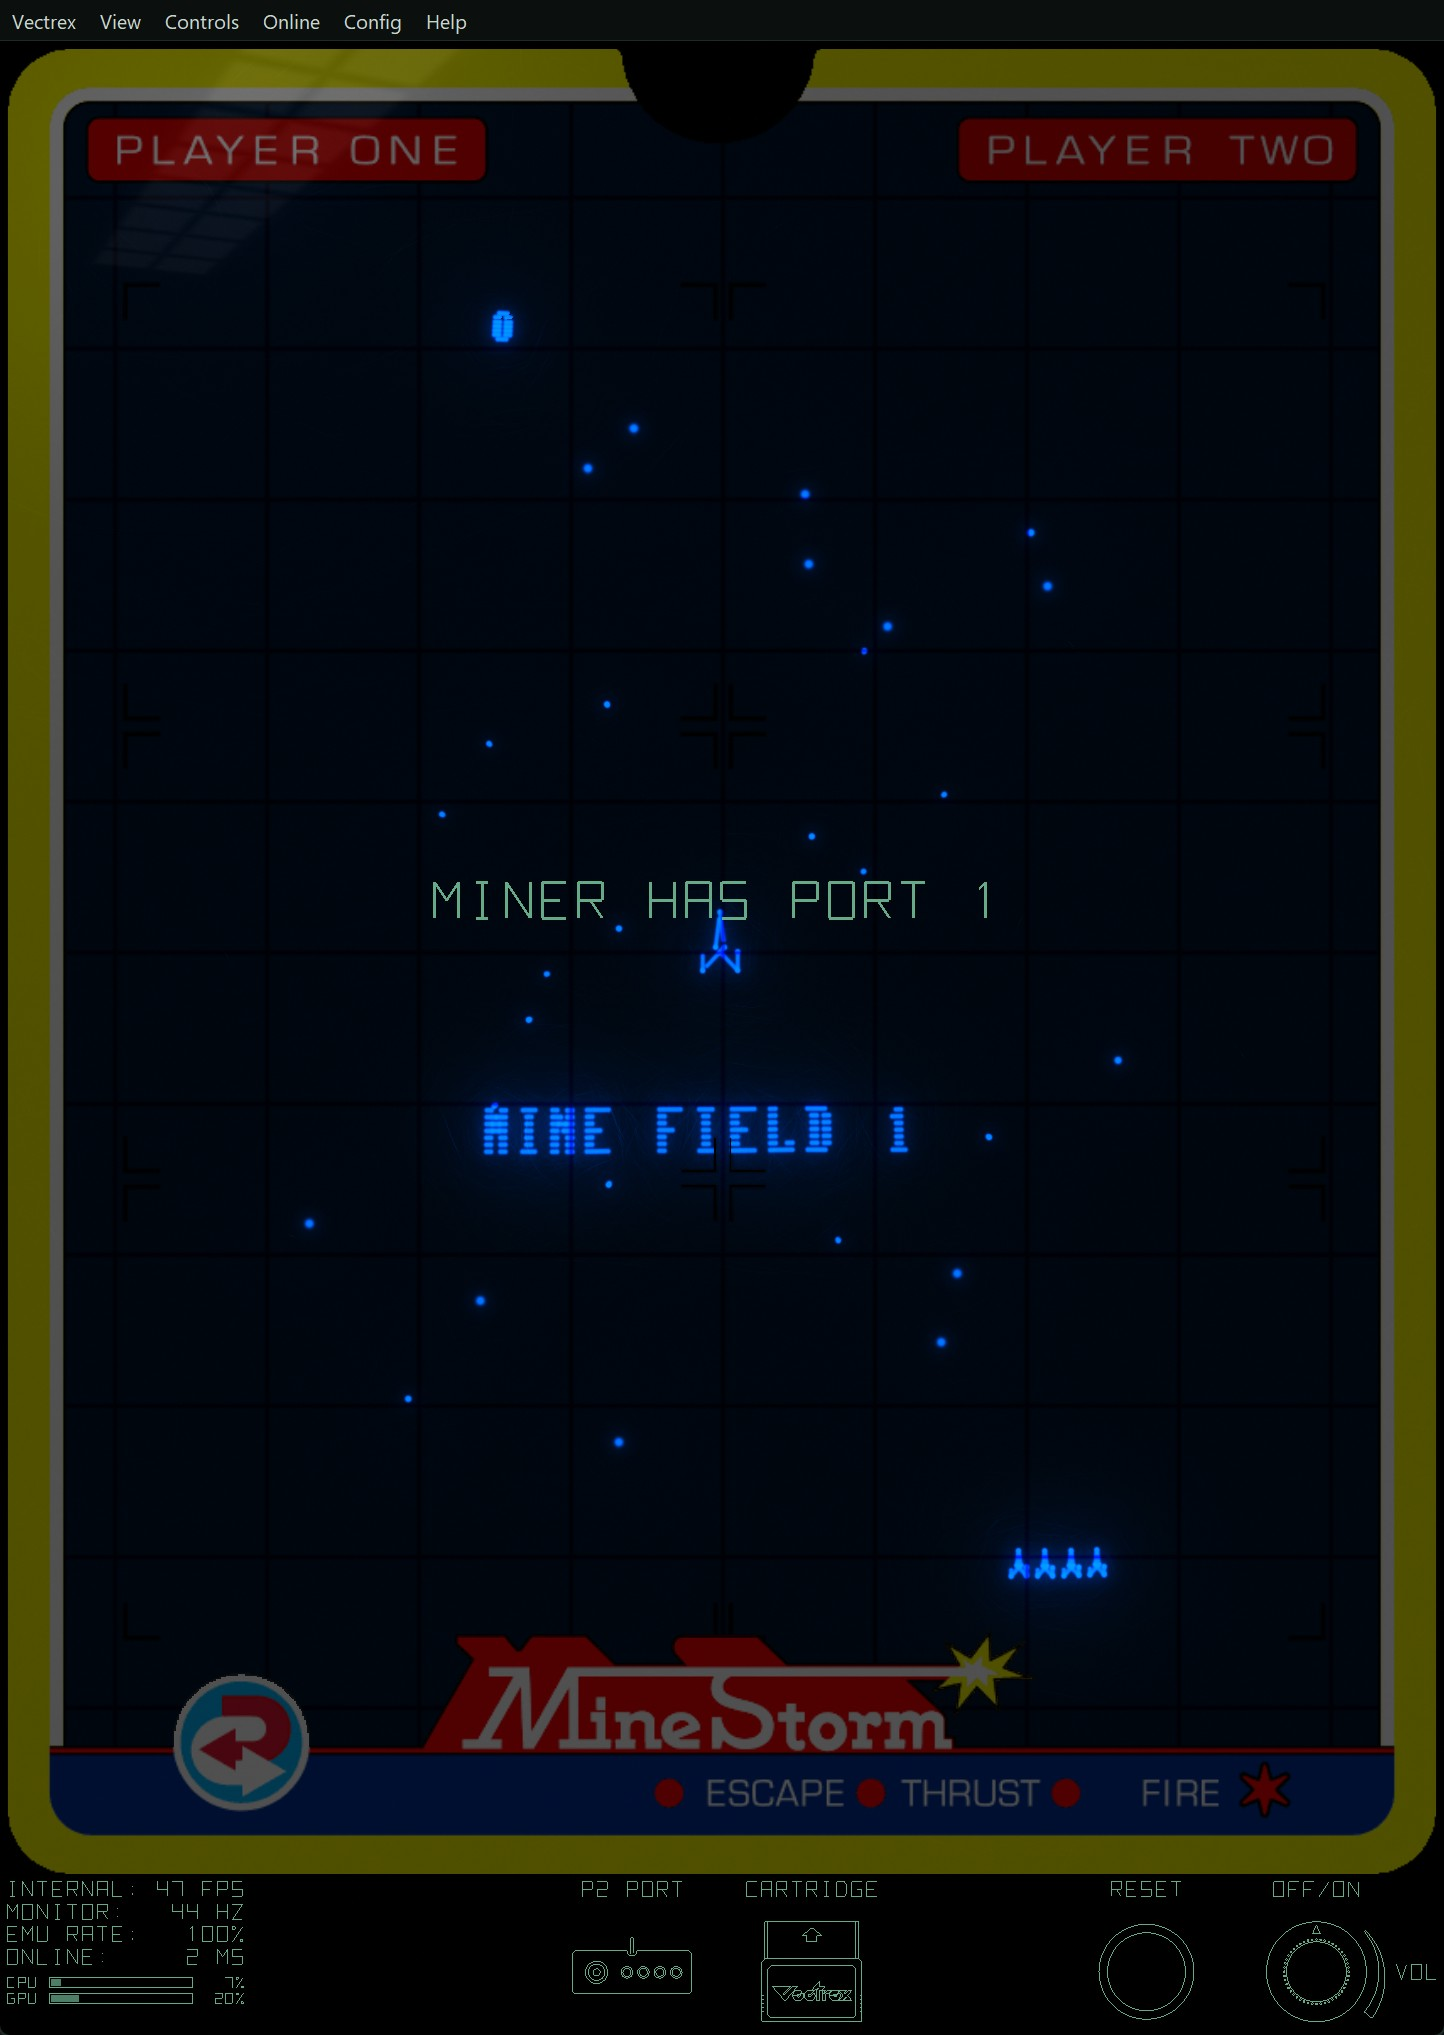
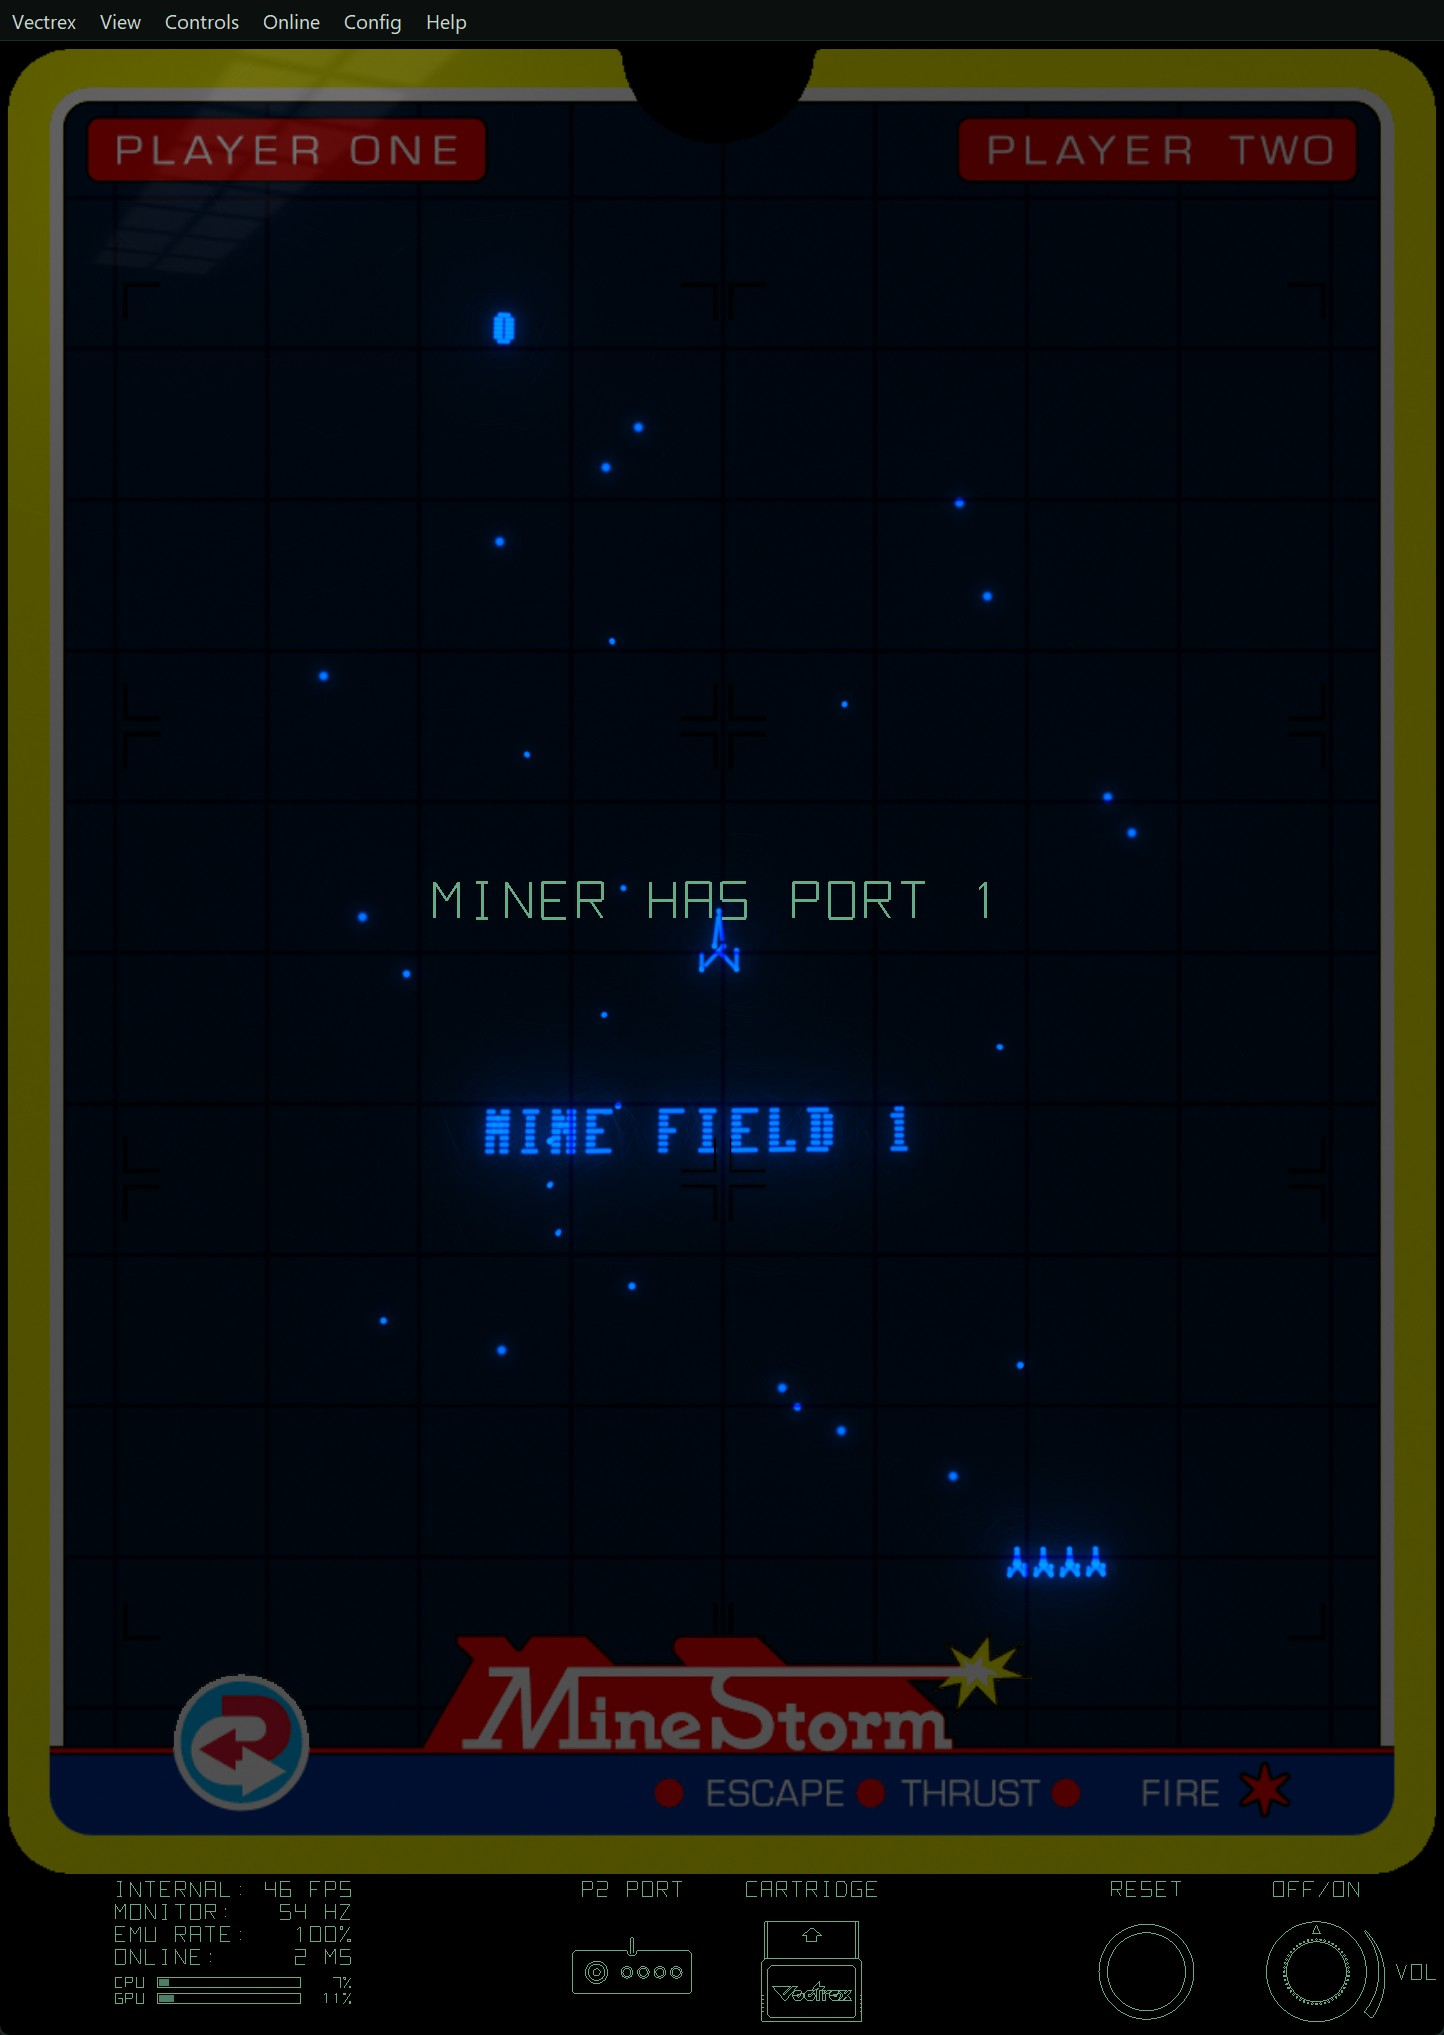
The strip: the OSD moved in (as far from P2 PORT as the cartridge from RESET); PAUSED / P: GO ON in that gap; v1.0.9 shots

diff --git a/src/frontend/vectrex_emu.py b/src/frontend/vectrex_emu.py
@@ -3690,18 +3690,19 @@ class App:
             return None
         pl, pt, pr, pb = self.pic_rect()
         x, y, r = self.cart_geom()
-        right = x - 3.6 * r - 1.9 * r                           # (the P2 PORT pictogram's left edge, a gap before it)
         od = self.osd_state()
+        p2 = od.get('p2x') if od else None
+        right = (p2 if p2 is not None else x - 3.6 * r) - 1.1 * r   # (the P2 PORT pictogram's left edge)
         k = (1.2 if self.full else 1.0) * 0.3 * r / 6.0         # (as large as the OSD's text)
         mid = y - 0.5 * r + 8.5 * k
         if od:
-            left = od['area'][0] + max(sum(len(t) for t, _ in row) for row in od['rows']) * 6.0 * od['k'] + r
+            left = od['area'][0] + max(sum(len(t) for t, _ in row) for row in od['rows']) * 6.0 * od['k']
             k = od['k']
             mid = od['area'][1] + len(od['rows']) * 9.0 * k / 2.0  # (level with the OSD's rows)
         else:
             left = (pl + pr) / 2 + (vecrender.GLASS_DX - vecrender.ART_AW) * (pb - pt) / 2
-        rows, ks = ['PAUSED', 'ESC OR P TO GO ON'], [2.6, 1.3]   # (PAUSED large, how to go on below it)
-        k = min(k, 0.95 * (right - left) / max(6.0 * len(t) * f for t, f in zip(rows, ks)))
+        rows, ks = ['PAUSED', 'P: GO ON'], [2.6, 1.3]            # (PAUSED large, how to go on below it - short: it fits
+        k = min(k, 0.8 * (right - left) / max(6.0 * len(t) * f for t, f in zip(rows, ks)))   #  the gap, room each side)
         if k <= 0:
             return None
         hgt = 11.0 * k * ks[0] + 6.0 * k * ks[1]
@@ -3740,7 +3741,9 @@ class App:
         if not (self.fps_on or self.cart_on or self.knob_on):  # (no strip below the picture: only the message)
             return None
         x, y, r = self.cart_geom()
-        return dict(cx=x - 3.6 * r, cy=y, r=r, kind=self.speech,
+        od = self.osd_state() if self.fps_on else None
+        px = od.get('p2x') if od else None
+        return dict(cx=px if px is not None else x - 3.6 * r, cy=y, r=r, kind=self.speech,
                     label='P2 PORT')
     def port2_click(self, e):
         """a click on the port 2 pictogram: joystick -> VecVox -> VecVoice -> 3D Imager -> light pen -> joystick
@@ -3776,6 +3779,15 @@ class App:
                       for n, v in zip(('CPU', 'GPU'), self.headroom())]                 #  too small to read, messy)
         x1 = rx - 1.25 * r
         bot = pb + (vecrender.PAD_BOT + vecrender.KNOB_STRIP - 0.635 * vecrender.KNOB_R) * ph
+        p2x = None
+        if k >= OSD_KMIN:                                       # (the strip, the owner 2026-10-29: the OSD moved in, as far
+            chars = max(sum(len(t) for t, _ in row) for row in rows)   #  from P2 PORT as the cartridge is from RESET -
+            w = chars * 6.0 * k                                 #  PAUSED sits in that gap)
+            cxx, _, cr = self.cart_geom()
+            gap = (rx - 0.95 * r) - (cxx + 1.3 * cr)            # (the cartridge's label to RESET's ring)
+            left = (cxx - 3.6 * cr - 1.1 * cr) - gap - w        # (P2 PORT's left edge, the gap, the OSD's width)
+            if left >= gl_:                                     # (only inwards)
+                gl_ = left
         if k < OSD_KMIN:                                        # (a small window: the strip's text would be unreadable -
             k = OSD_KMIN                                        #  readable size, in the black left of the picture, its
             chars = max(sum(len(t) for t, _ in row) for row in rows)   #  bottom level with the strip's)
@@ -3783,7 +3795,7 @@ class App:
             gl_ = max(8.0, min(gl_, pl - 12.0 - w))
             top = bot - h
             x1 = max(x1, gl_ + w)
-        return dict(area=(gl_, top, x1, bot), rows=rows, k=k, meters=meters)
+        return dict(area=(gl_, top, x1, bot), rows=rows, k=k, meters=meters, p2x=p2x)
                     # (the text as high as the knob's labels; in full screen 20 % larger)
     # ---------------------------------------------------------------- the cartridge and the ROM browser
     def toggle_cart(self, e=None):

diff --git a/RELEASE_NOTES.md b/RELEASE_NOTES.md
@@ -49,7 +49,9 @@ build workflow replaces that release (title = the version, marked Latest) with t
 **The on-screen display**
 - Online, the ONLINE row (the round trip, RELAY through the meeting point, WAITING) takes the volume's row: the display
   keeps its height and stays below the overlay. The volume shows on the knob and on the status line.
-- Paused: PAUSED and how to go on sit halfway between the frame's bottom edge and the bottom of the window.
+- The strip below the picture: the OSD moved in - as far from P2 PORT as the cartridge is from RESET, room from the
+  window's edge. Paused: PAUSED and P: GO ON sit in that gap (the same room on both sides), halfway between the
+  frame's bottom edge and the bottom of the window.
 
 ## v1.0.8
 
